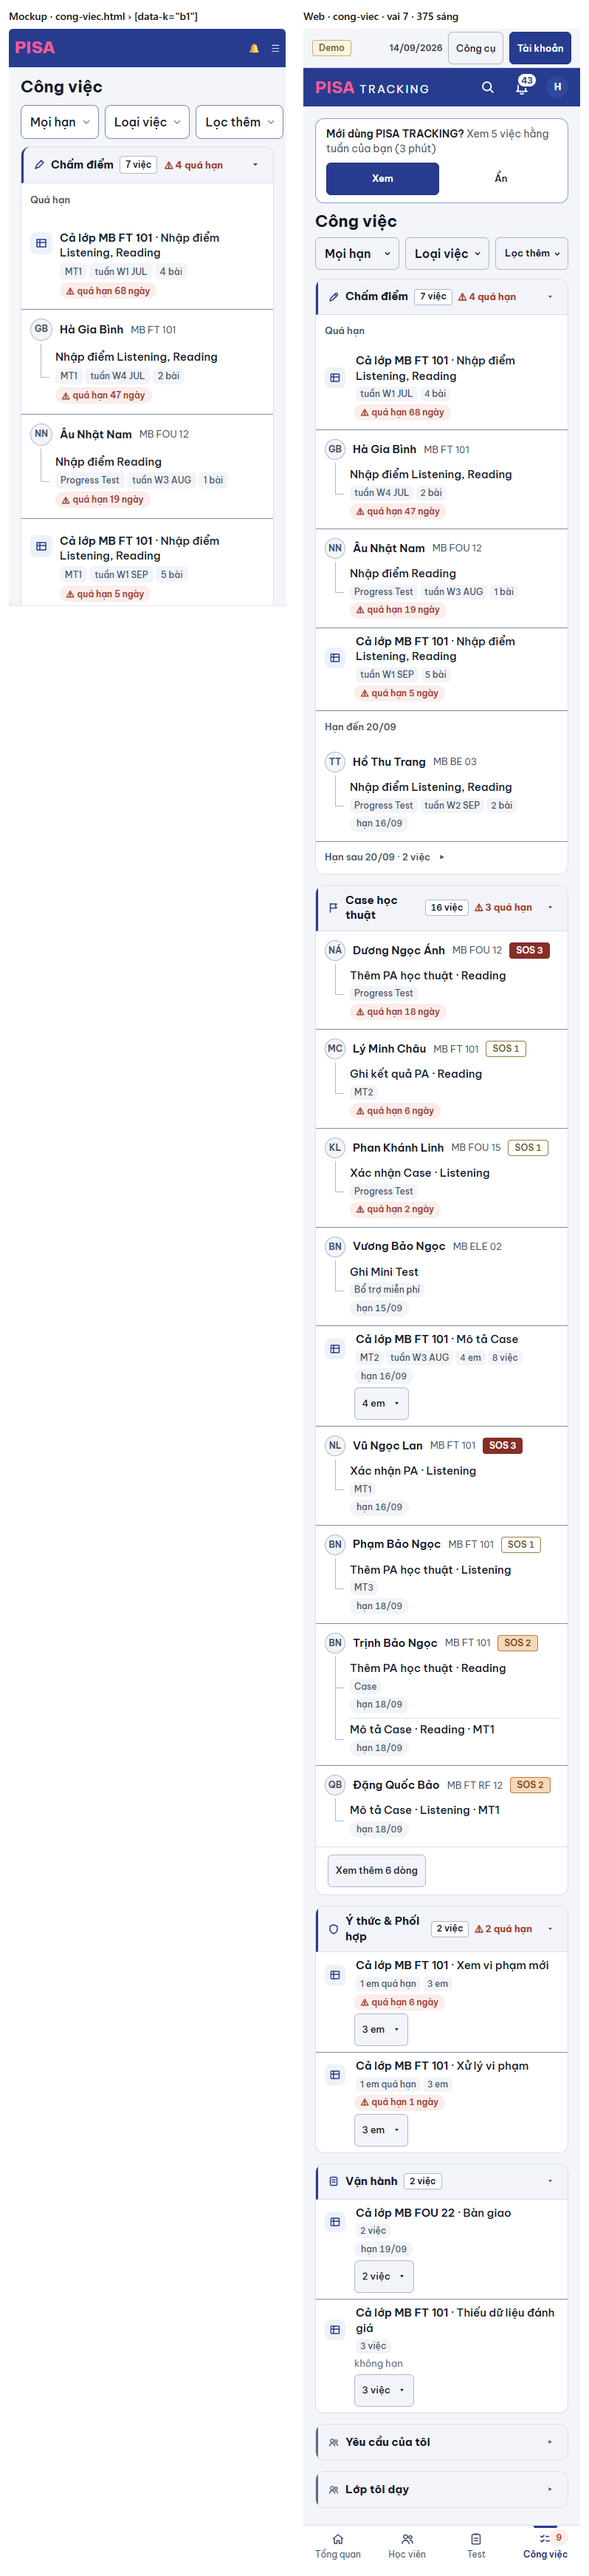
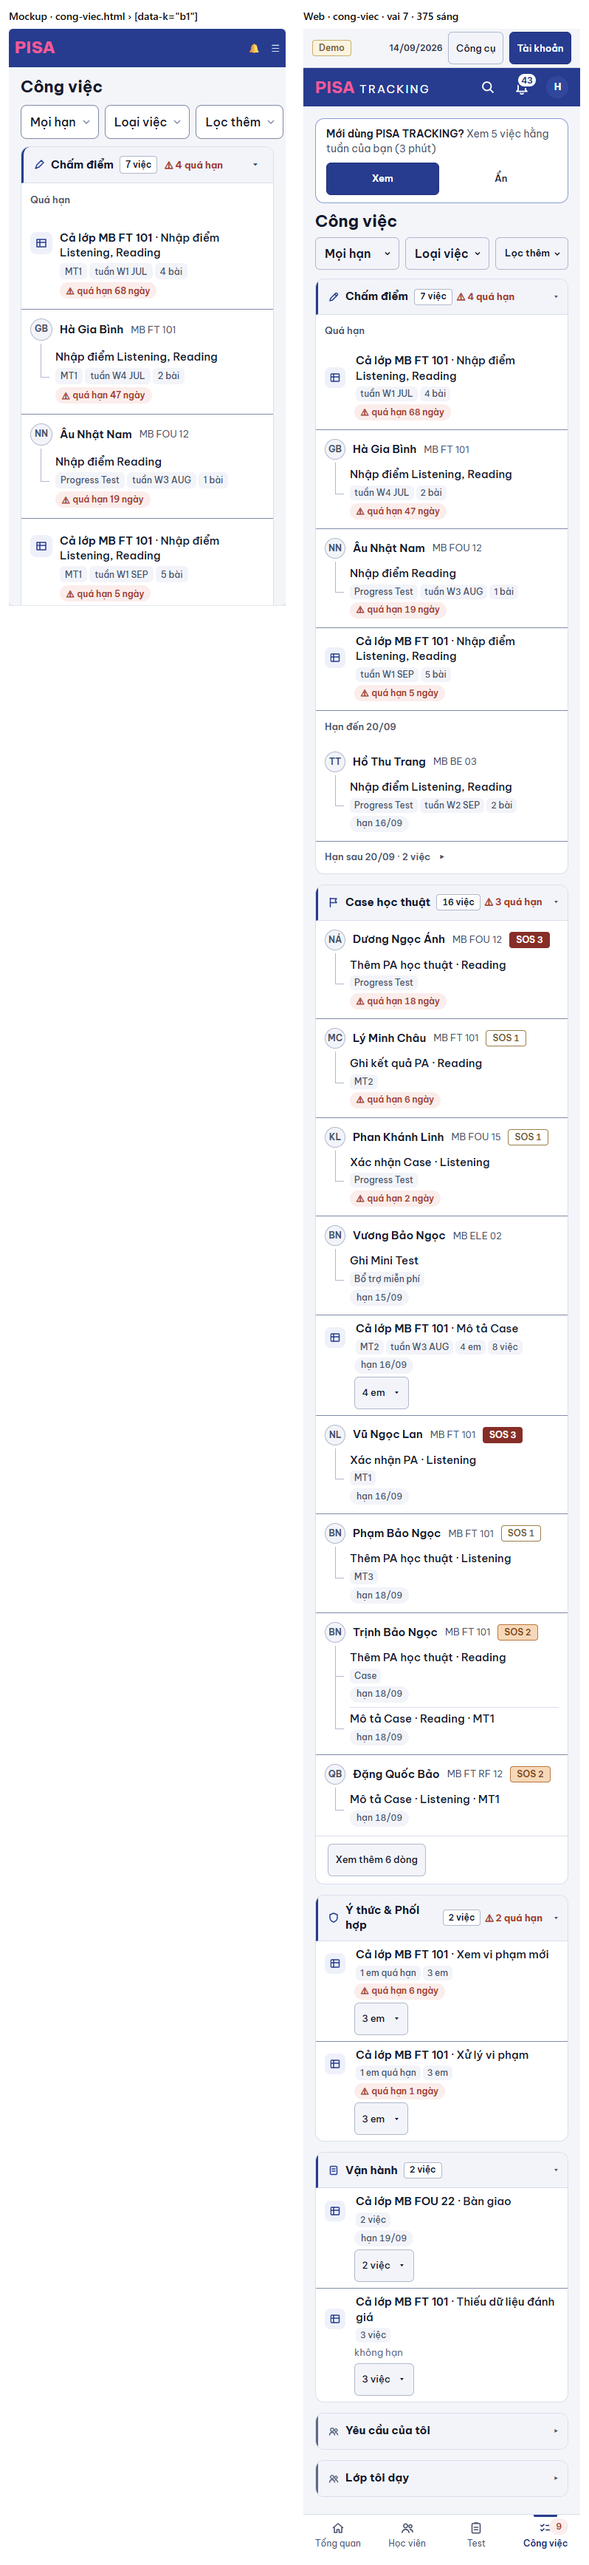
UI-CV-V12: 375 dải nhóm tên tối đa 2 dòng (khe 6 px, ▾ 24 px ở màn hẹp) + ảnh cặp QL 375

diff --git a/web/src/modules/congViec/DanhSachViec.tsx b/web/src/modules/congViec/DanhSachViec.tsx
@@ -163,7 +163,7 @@ export function DaiNhom({ k, nhan, chip, mo, onMo, luat, phu, trungTinh = false 
 }) {
   return (
     /* v12 S8: MỘT hàng cả ở 375 — tên · chip "n việc" · ⚠ quá hạn cùng hàng (không số phụ thứ hai); tên dài thì tên xuống dòng, không cắt (M2). */
-    <h2 className={`sticky top-0 z-[3] m-0 flex min-h-[48px] items-center gap-x-2 border-l-[3px] pl-[13px] pr-2 text-[15px] font-bold leading-snug ${mo ? 'border-b' : ''}`}
+    <h2 className={`sticky top-0 z-[3] m-0 flex min-h-[48px] items-center gap-x-2 border-l-[3px] pl-[13px] pr-2 text-[15px] font-bold leading-snug max-sm:gap-x-1.5 max-sm:pr-1 ${mo ? 'border-b' : ''}`}
       style={{ background: 'var(--surface-2)', borderBottomColor: 'var(--line)', borderLeftColor: trungTinh ? 'var(--text-faint)' : 'var(--accent)' }}>
       <button type="button" aria-expanded={mo} onClick={onMo}
         className="flex min-h-[44px] min-w-0 appearance-none items-center gap-2 border-0 bg-transparent py-2.5 text-left">
@@ -175,7 +175,7 @@ export function DaiNhom({ k, nhan, chip, mo, onMo, luat, phu, trungTinh = false 
       {luat}
       {phu && <span className="flex shrink-0 items-center gap-x-2.5 whitespace-nowrap text-[13px] empty:hidden">{phu}</span>}
       <button type="button" tabIndex={-1} aria-hidden onClick={onMo}
-        className="ml-auto h-8 w-8 shrink-0 appearance-none rounded-md border-0 bg-transparent text-[13px] font-normal text-dim hover:bg-[color:var(--accent-soft)]">
+        className="ml-auto h-8 w-8 shrink-0 appearance-none rounded-md border-0 bg-transparent text-[13px] font-normal text-dim hover:bg-[color:var(--accent-soft)] max-sm:w-6">
         {mo ? '▾' : '▸'}
       </button>
     </h2>
